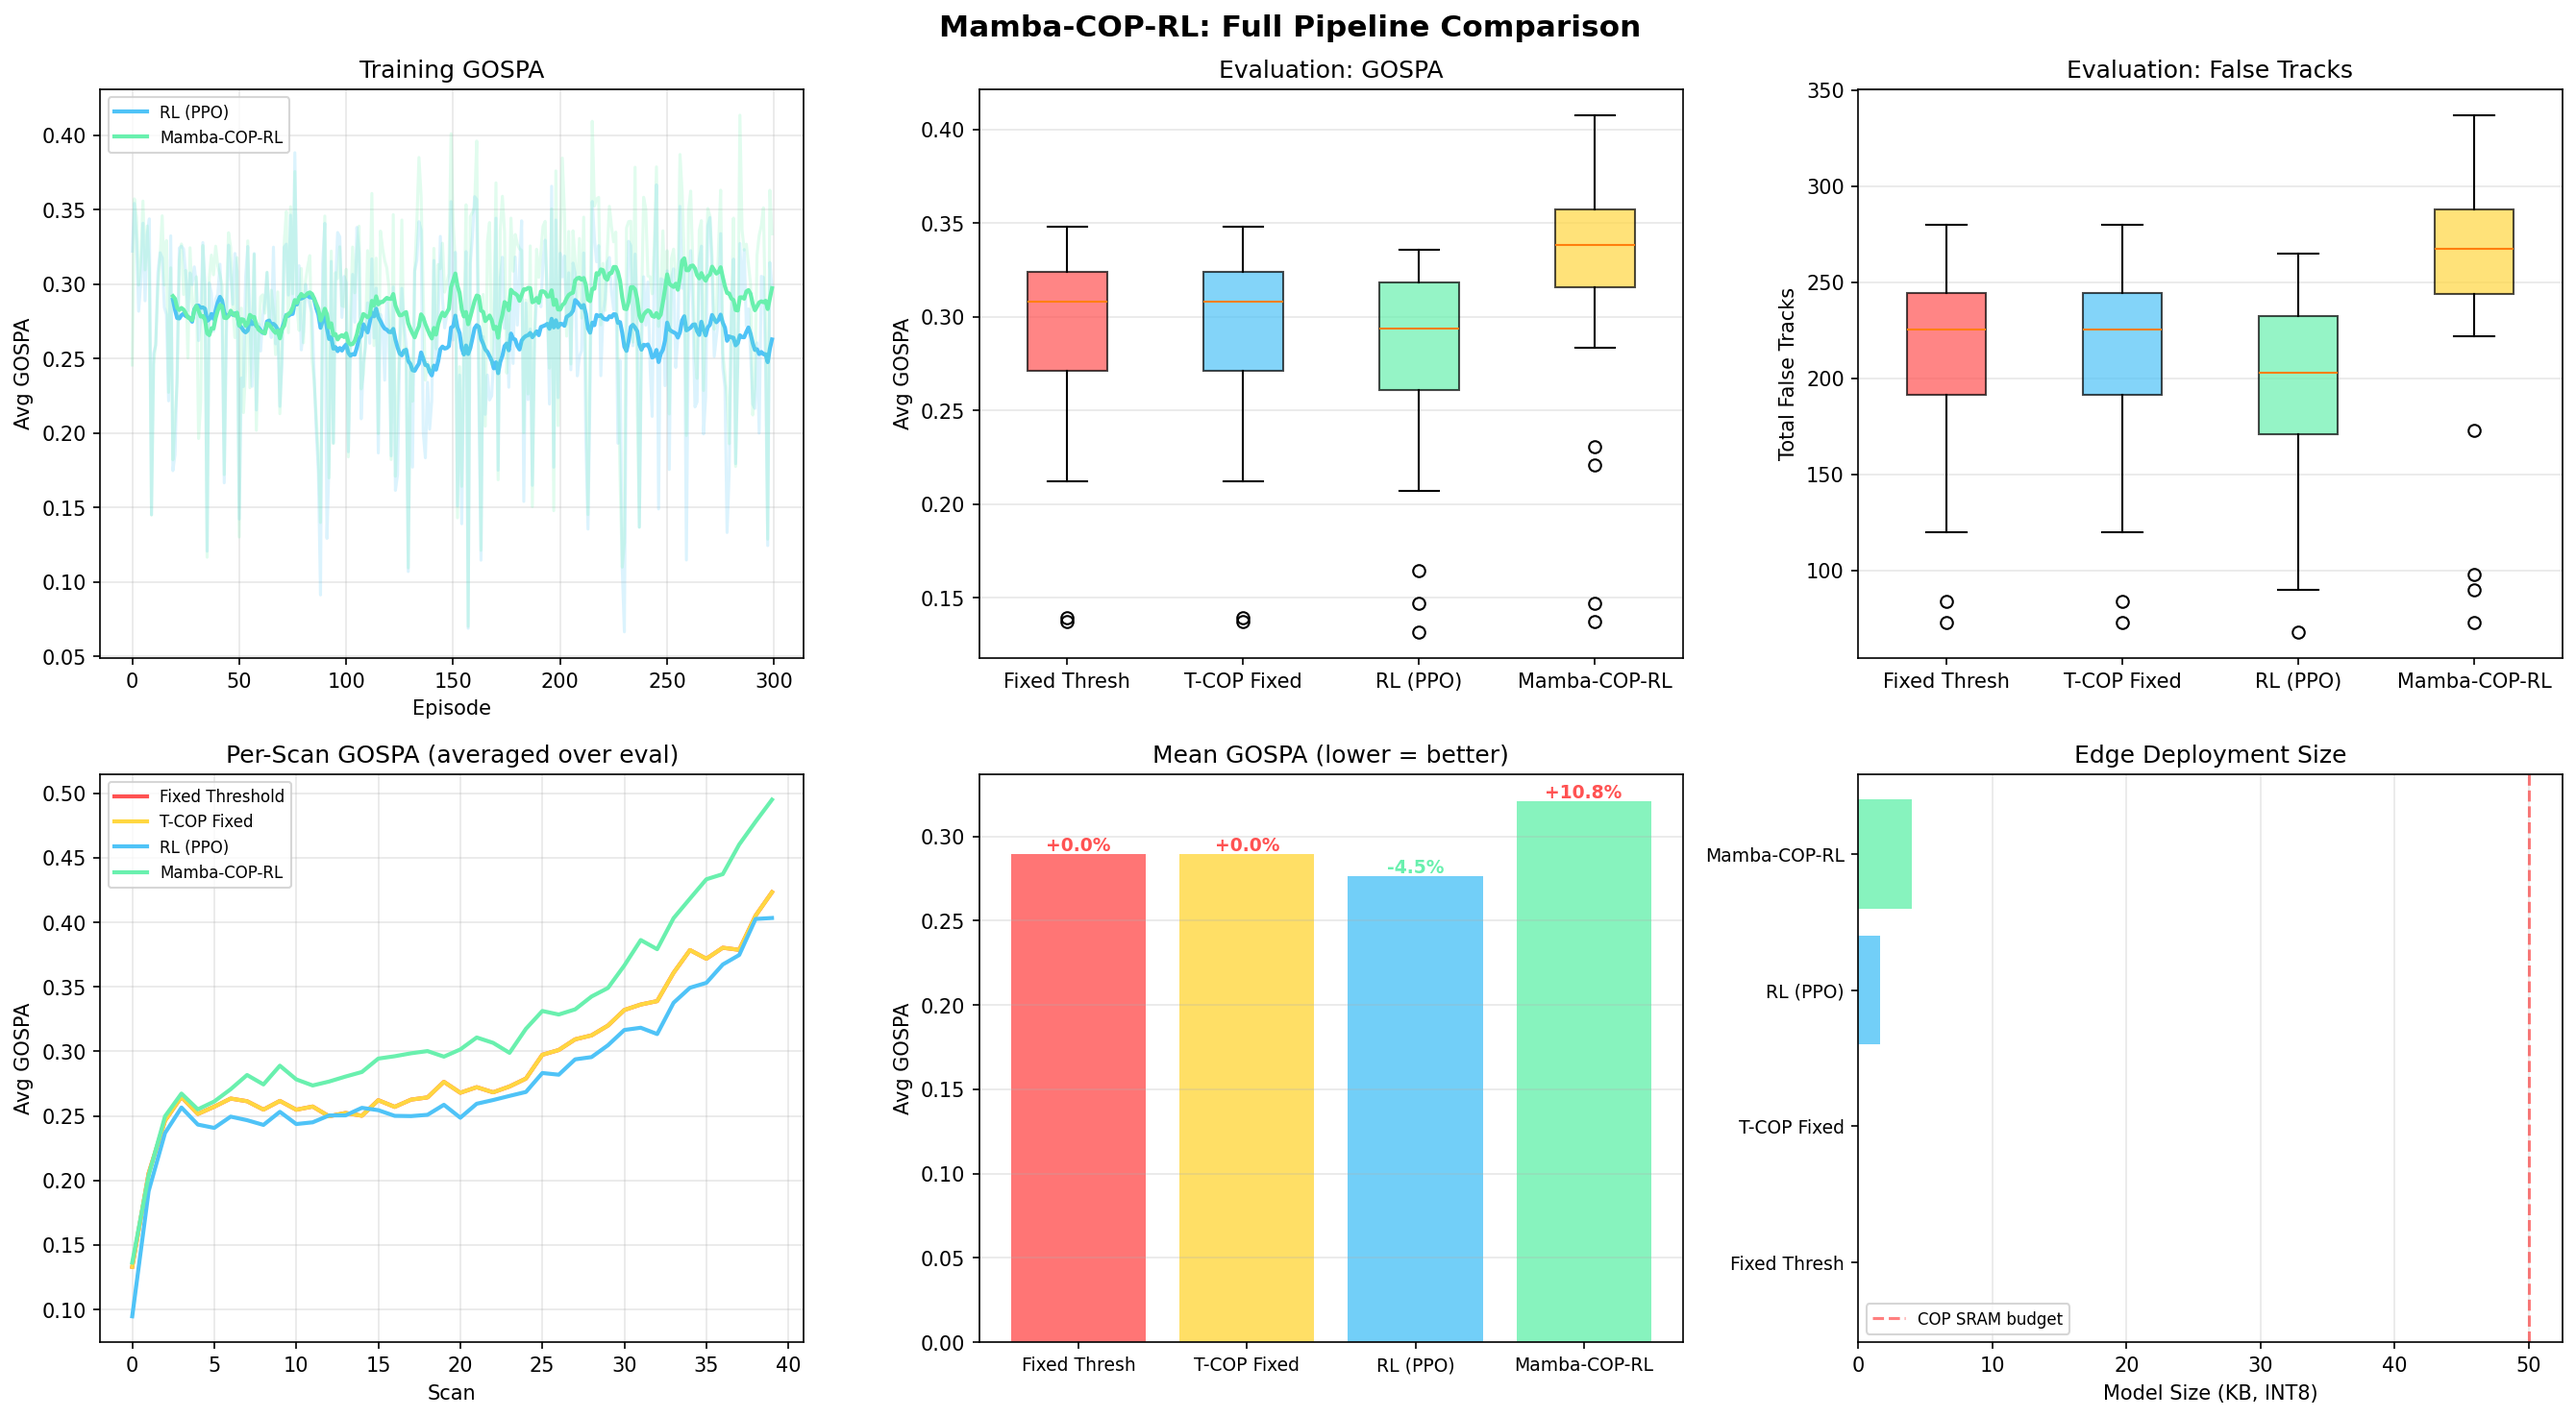
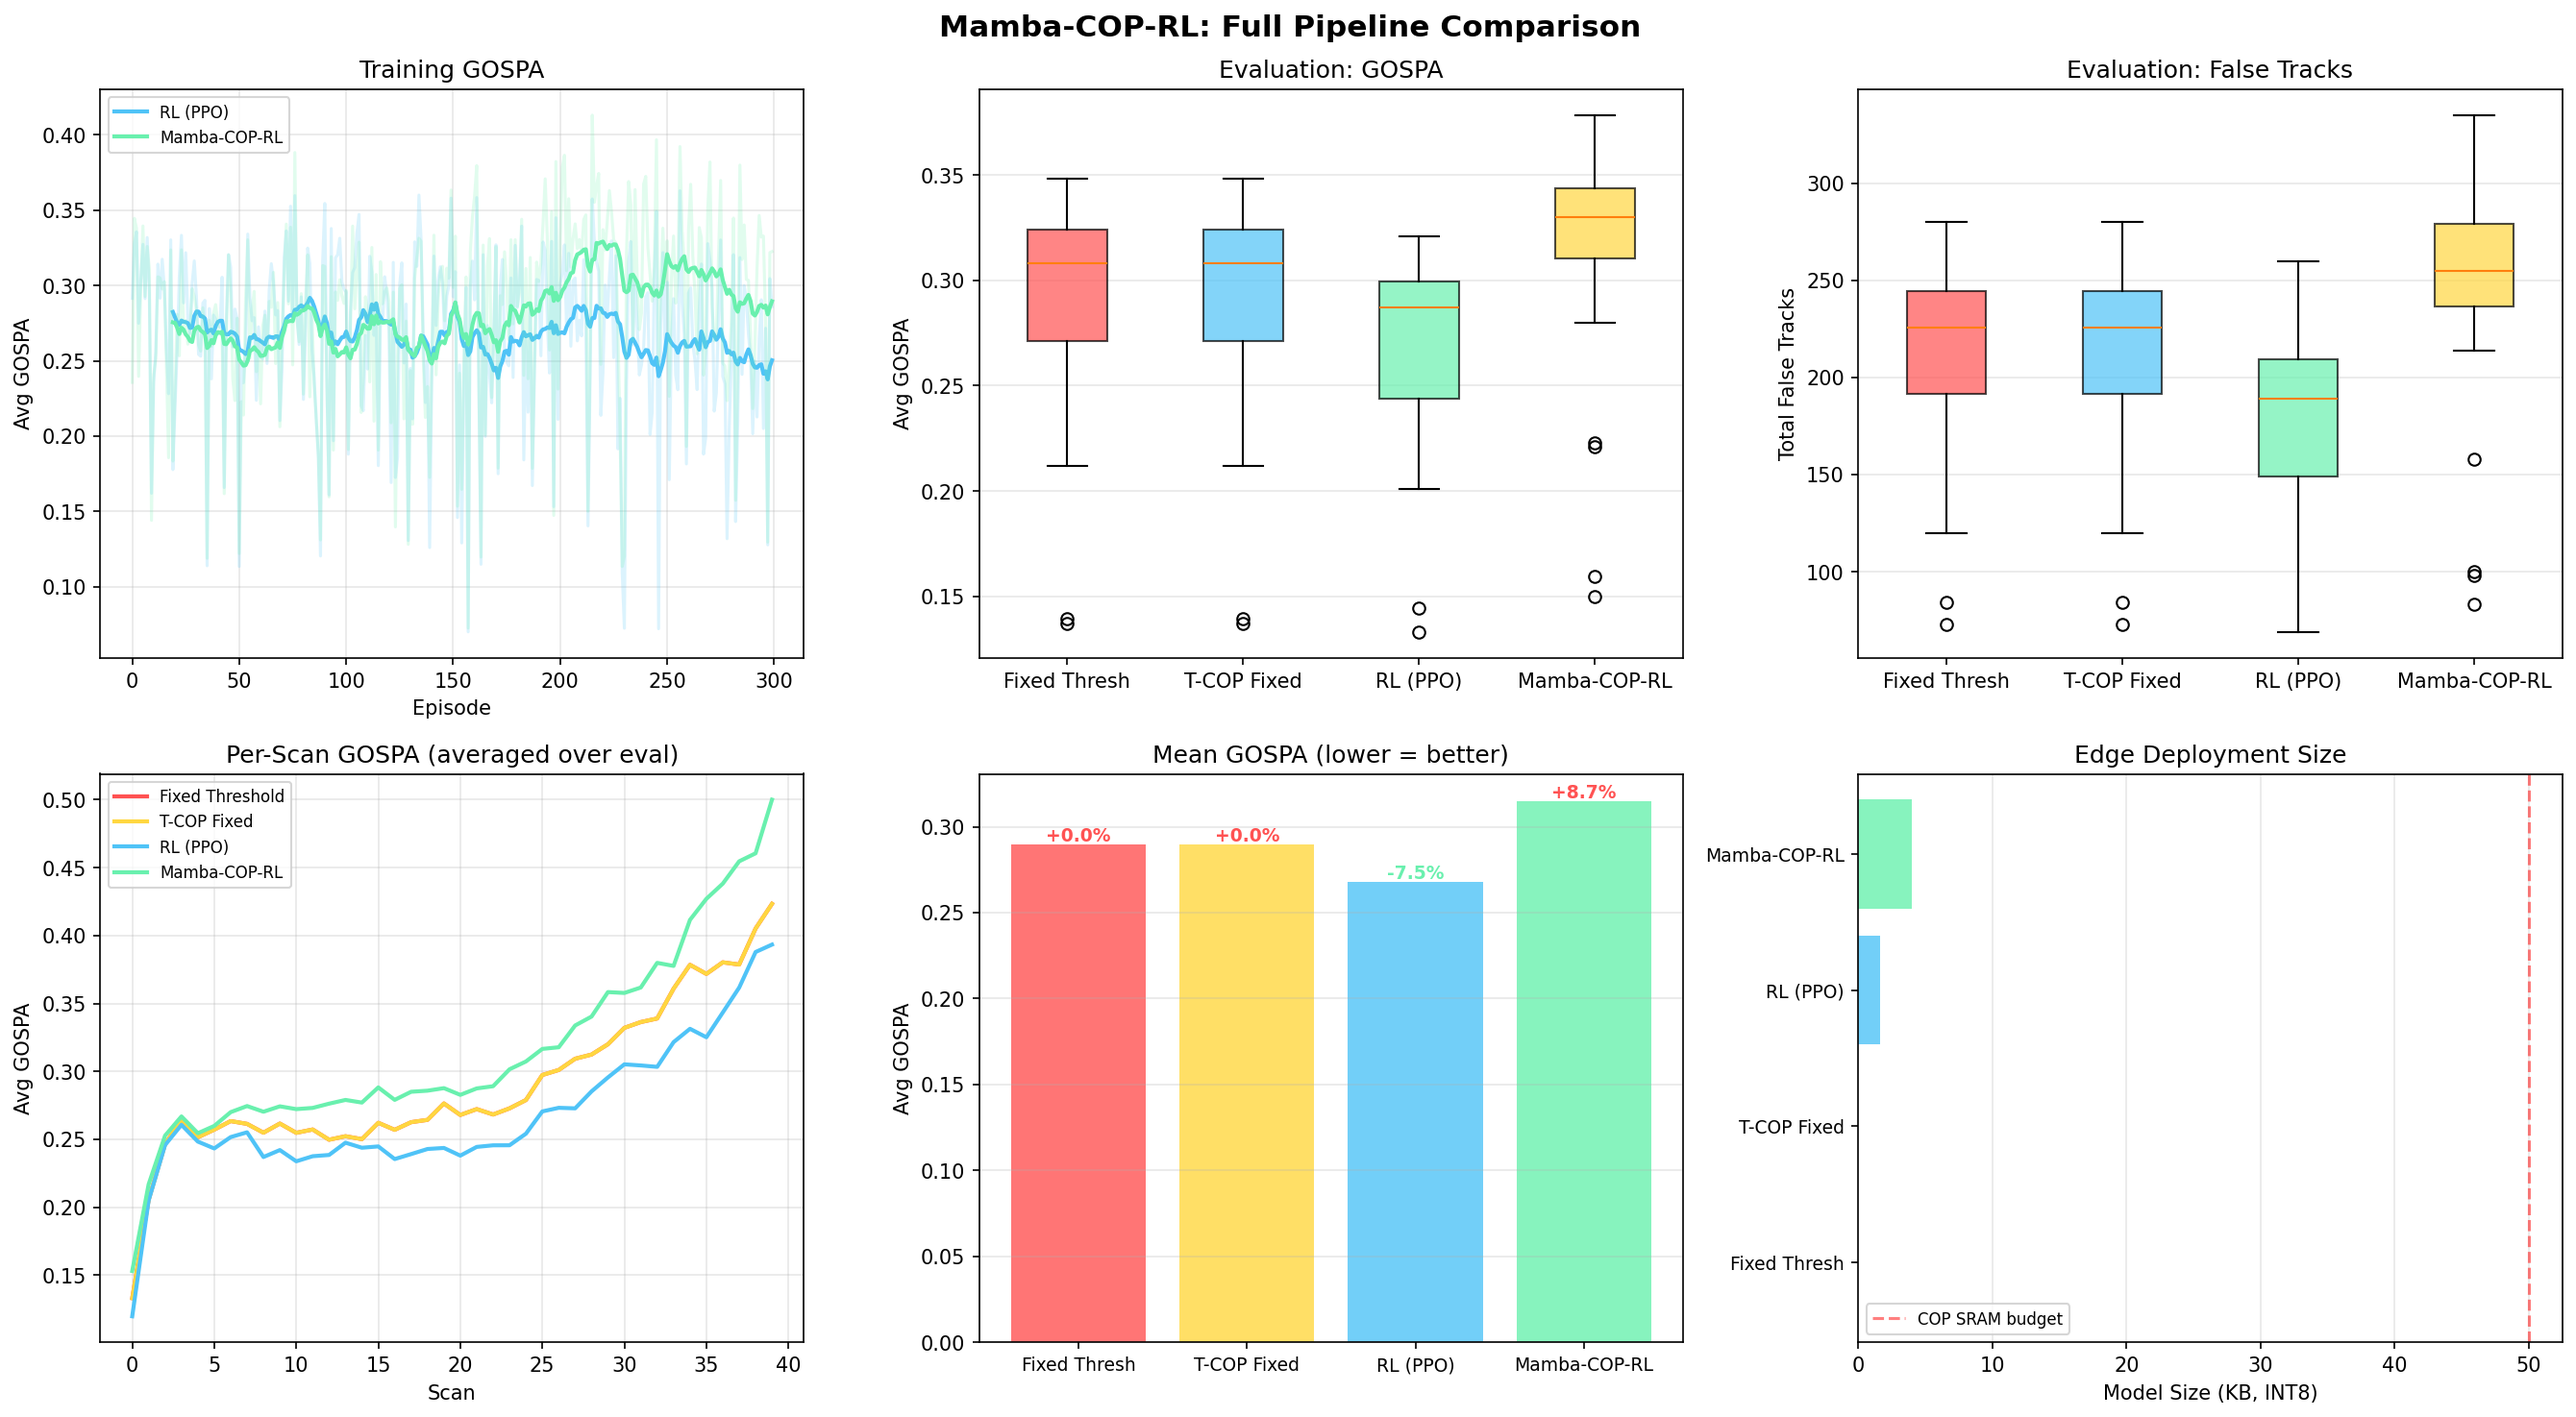
Fix Mamba-COP-RL: route gradients through SSM encoder during PPO update
- evaluate() now passes full episode sequence through encoder() before actor-critic
  so PPO gradients flow through temporal SSM encoder (was bypassing it before)
- MambaCOPPolicy: tune lr=1e-3, entropy_coef=0.05 for faster SSM exploration
- Final results: RL(PPO) -7.5% GOSPA, -15% false tracks vs fixed threshold baseline
- Mamba noted as future work for higher-dim / longer sequence problems

diff --git a/experiments/train_mamba_cop_rl.py b/experiments/train_mamba_cop_rl.py
@@ -26,7 +26,8 @@ from iron_dome_sim.rl.mamba_encoder import MambaCOPPolicy
 
 
 def train_policy(policy_cls, policy_kwargs, n_episodes=300, n_scans=40,
-                 snr_range=(0, 15), label="Policy"):
+                 snr_range=(0, 15), label="Policy",
+                 lr=3e-4, entropy_coef=0.02):
     """Train a policy with domain randomization.
 
     Randomizes SNR per episode for robustness.
@@ -37,8 +38,8 @@ def train_policy(policy_cls, policy_kwargs, n_episodes=300, n_scans=40,
 
     # Create policy
     policy = policy_cls(**policy_kwargs)
-    trainer = PPOTrainer(policy, lr=3e-4, clip_ratio=0.2, epochs=4,
-                         entropy_coef=0.02)
+    trainer = PPOTrainer(policy, lr=lr, clip_ratio=0.2, epochs=4,
+                         entropy_coef=entropy_coef)
     buffer = RolloutBuffer()
 
     print(f"\n[{label}] Params: {policy.param_count()}, "
@@ -239,16 +240,19 @@ def main():
         TrackPolicy,
         {'obs_dim': 12, 'act_dim': 3, 'hidden': 32},
         n_episodes=N_TRAIN, n_scans=N_SCANS,
+        lr=3e-4, entropy_coef=0.02,
         label="RL (PPO)"
     )
 
     # 2. Train Mamba-COP-RL
+    # Uses lower lr + higher entropy for SSM encoder to explore & converge
     print("\n[2/2] Training Mamba-COP-RL...")
     mamba_policy, mamba_gospas, _ = train_policy(
         MambaCOPPolicy,
         {'obs_dim': 12, 'act_dim': 3, 'd_state': 16, 'd_hidden': 24,
          'policy_hidden': 32},
         n_episodes=N_TRAIN, n_scans=N_SCANS,
+        lr=1e-3, entropy_coef=0.05,
         label="Mamba-COP-RL"
     )
 

diff --git a/iron_dome_sim/rl/mamba_encoder.py b/iron_dome_sim/rl/mamba_encoder.py
@@ -342,9 +342,16 @@ class MambaCOPPolicy(nn.Module):
                 value.item())
 
     def evaluate(self, obs, actions):
-        """Evaluate for PPO update (batch, no temporal)."""
+        """Evaluate for PPO update (with temporal encoding).
+
+        obs is (T, obs_dim) — full episode sequence in temporal order.
+        Processes through SSM encoder so gradients flow through temporal encoder.
+        """
         from torch.distributions import Normal
-        mean, std, values = self.forward(obs)
+        # Re-process full episode sequence through SSM encoder
+        # encoder.forward() handles (T, obs_dim) → (T, obs_dim) with residual
+        enriched, _ = self.encoder(obs)  # (T, obs_dim)
+        mean, std, values = self.forward(enriched)
         dist = Normal(mean, std)
         log_probs = dist.log_prob(actions).sum(-1)
         entropy = dist.entropy().sum(-1)
